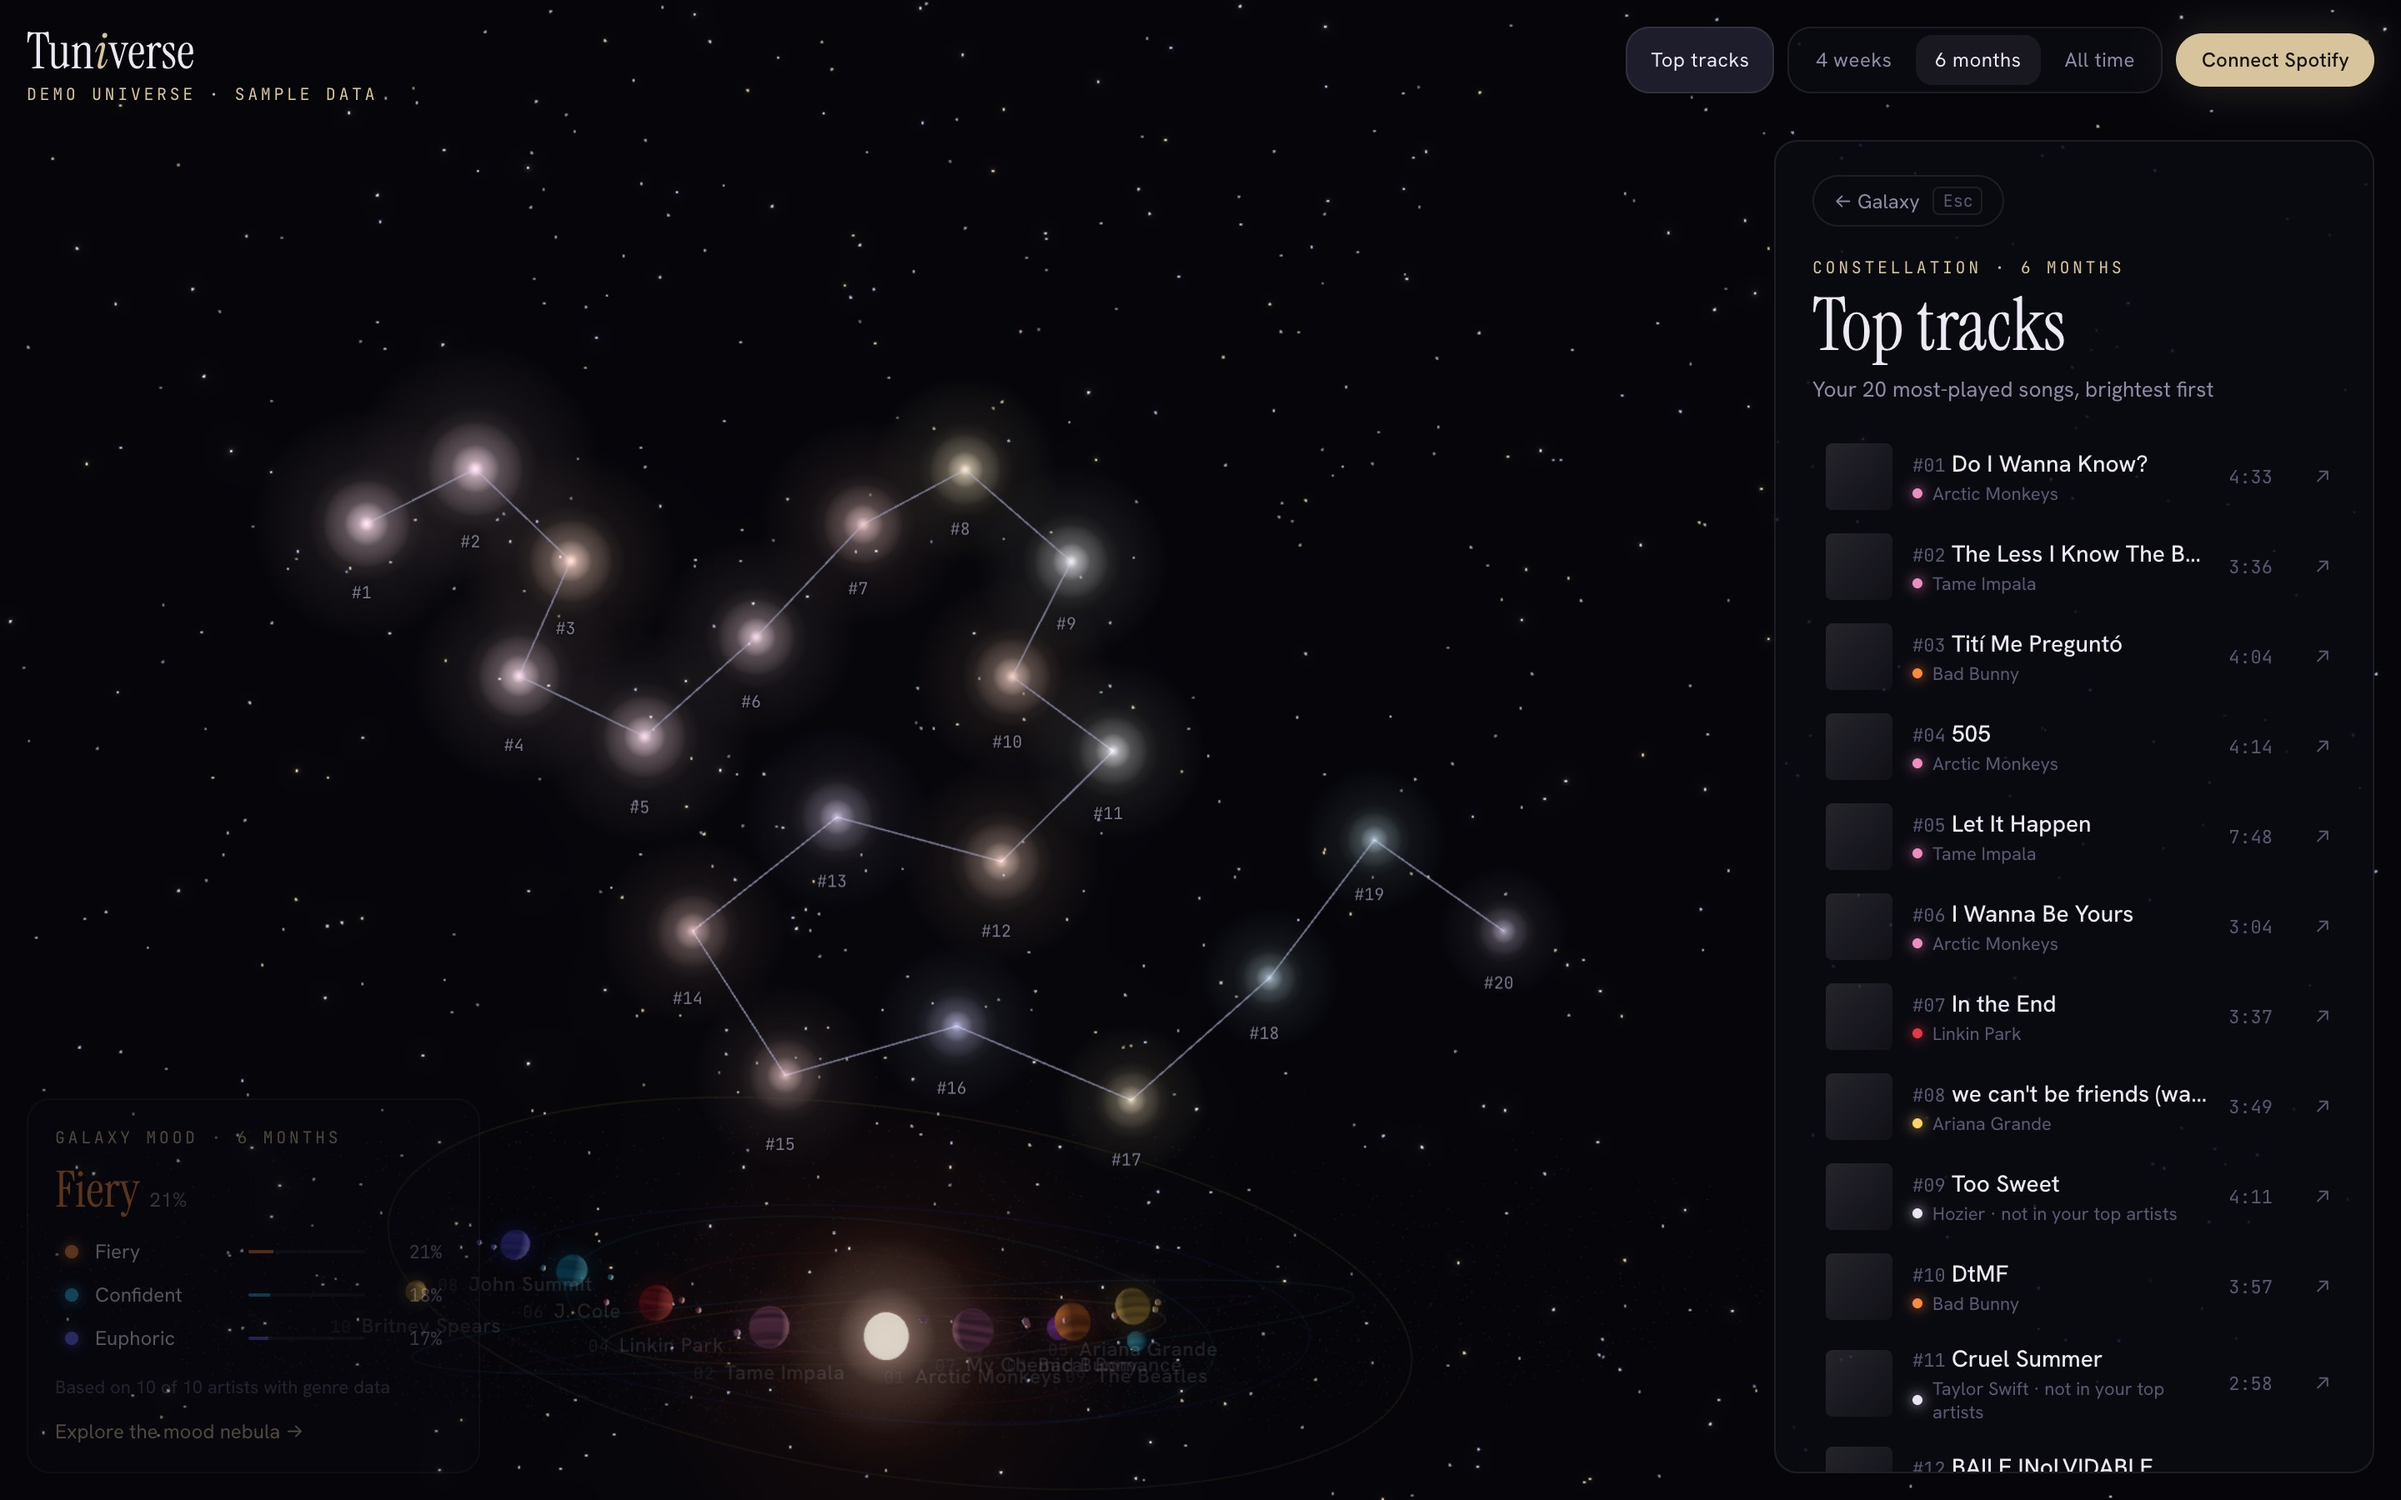
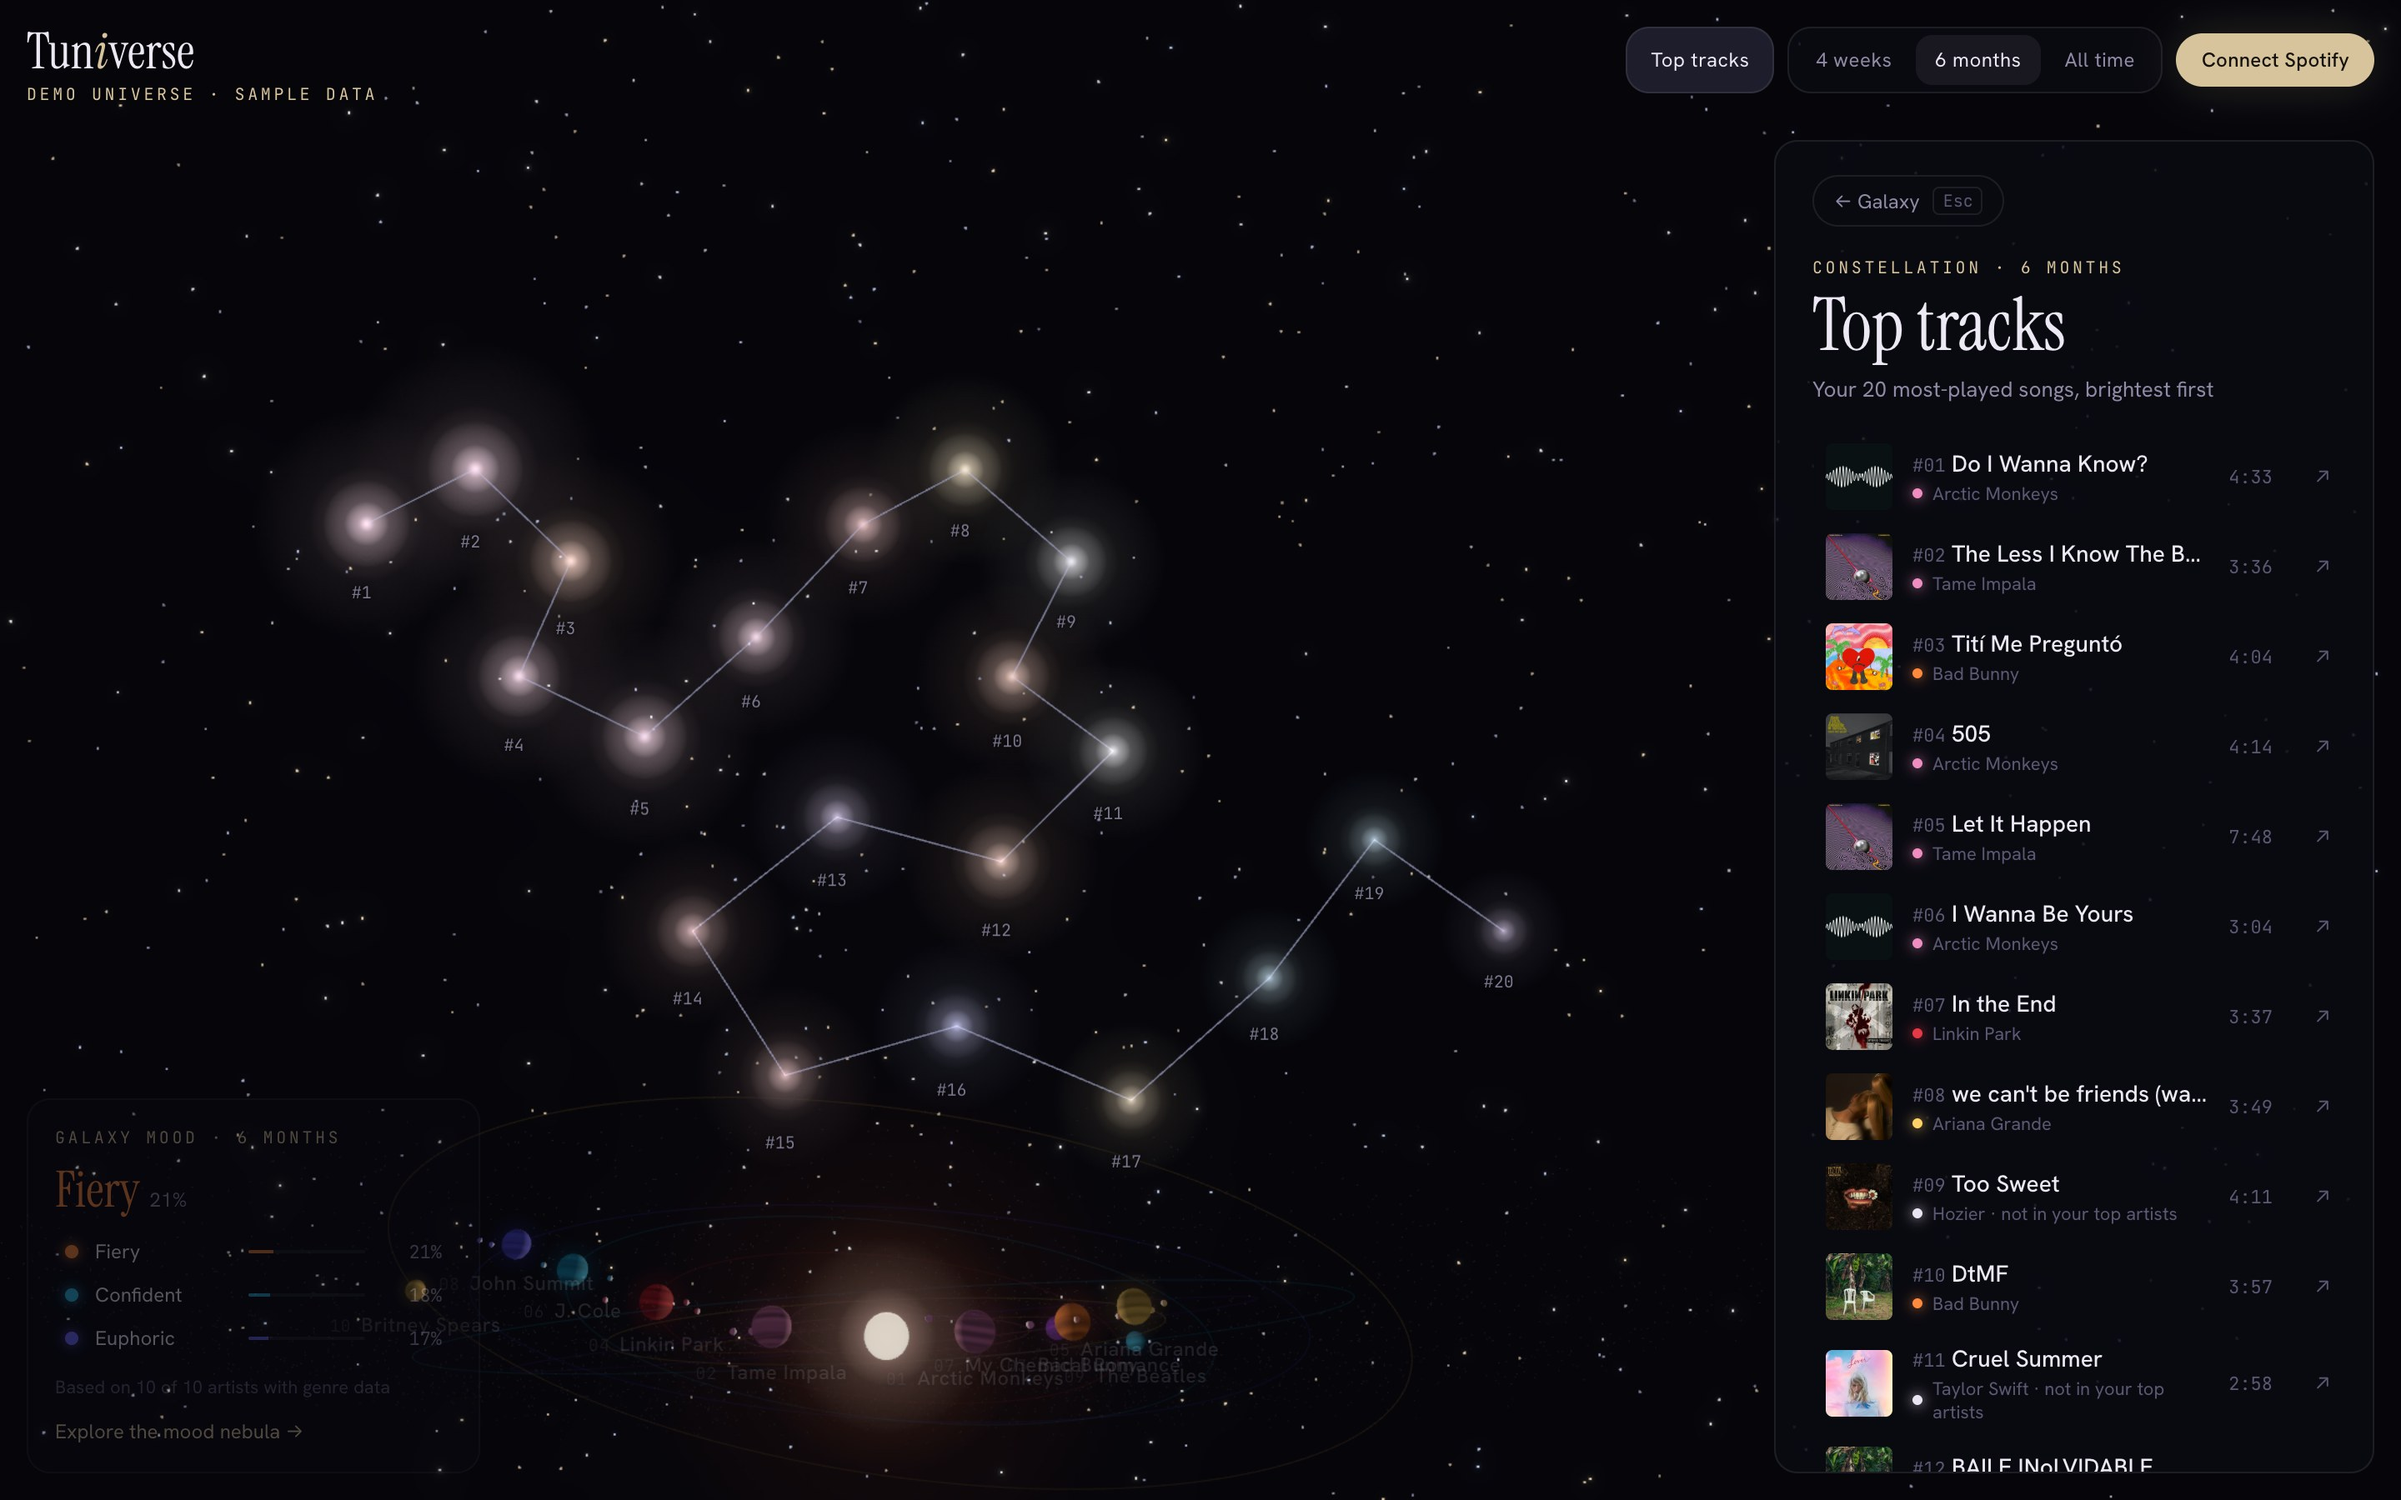
Album covers and artist photos in the demo
The demo's tracks and artists now carry their real Spotify images, taken
from Spotify's public oEmbed endpoint and served from its image CDN, so
the track lists and artist panels look like a real account's. README
screenshots updated to match.

Changed region(s): [[0.75, 0.6533, 0.8125, 0.9956], [0.75, 0.3111, 0.8125, 0.4978], [0.75, 0.5289, 0.8125, 0.6222]]

diff --git a/backend/demo/universe.py b/backend/demo/universe.py
@@ -67,6 +67,27 @@ SPOTIFY_ARTIST_IDS = {
     "hozier": "2FXC3k01G6Gw61bmprjgqS",
 }
 
+# Artist photo ids on Spotify's image CDN (320px), from the same public oEmbed endpoint as the covers
+ARTIST_PHOTOS = {
+    "bad-bunny": "ab6761610000517481f47f44084e0a09b5f0fa13",
+    "the-beatles": "ab67616100005174357fdaf56c64a36a36741538",
+    "kiss": "ab67616100005174d8205a492a79bfe4b34c567a",
+    "britney-spears": "ab67616100005174a82576e3d9f02b310e15a262",
+    "arctic-monkeys": "ab676161000051747da39dea0a72f581535fb11f",
+    "j-cole": "ab67616100005174c401ea77e86ee984b1ba9fc2",
+    "john-summit": "ab6761610000517420662b32f3dbabad755dfb53",
+    "my-chemical-romance": "ab676161000051740c55e74e435910793888f7cf",
+    "tame-impala": "ab67616100005174e412a782245eb20d9626c601",
+    "linkin-park": "ab67616100005174527d95dabbe8b8b527e8136f",
+    "ariana-grande": "ab6761610000517468412f2d0177a9ebc265ff58",
+    "led-zeppelin": "16eb3cdae0d824b520ac17710e943a99d3ef6602",
+    "shakira": "ab6761610000517417f15f351cba70561ad8bcac",
+    "olivia-dean": "ab676161000051745c7577ad44daeb7ce4b941a1",
+    "taylor-swift": "ab6761610000517412184bdd29403de54cb9d9c7",
+    "phoebe-bridgers": "ab676161000051746e2d4ab2b84463aa4c349311",
+    "hozier": "ab67616100005174ad85a585103dfc2f3439119a",
+}
+
 # Each period's top 10 artists, in rank order
 TOP_ARTISTS = {
     "short_term": ["john-summit", "bad-bunny", "olivia-dean", "ariana-grande", "linkin-park", "tame-impala", "j-cole", "shakira", "arctic-monkeys", "my-chemical-romance"],
@@ -96,6 +117,45 @@ TRACKS = {
 }
 TRACKS_ONLY = ("taylor-swift", "phoebe-bridgers", "hozier")
 
+# Album cover image ids on Spotify's image CDN (300px), keyed by track id. From Spotify's
+# public oEmbed endpoint, so the demo shows the same covers as a real account.
+ALBUM_COVERS = {
+    "3sK8wGT43QFpWrvNQsrQya": "ab67616d00001e02bbd45c8d36e0e045ef640411",
+    "2lTm559tuIvatlT1u0JYG2": "ab67616d00001e02bbd45c8d36e0e045ef640411",
+    "1IHWl5LamUGEuP4ozKQSXZ": "ab67616d00001e0249d694203245f241a1bcaa72",
+    "6dGnYIeXmHdcikdzNNDMm2": "ab67616d00001e02dc30583ba717007b00cceb25",
+    "7iN1s7xHE4ifF5povM6A48": "ab67616d00001e0284243a01af3c77b56fe01ab1",
+    "07q0QVgO56EorrSGHC48y3": "ab67616d00001e024384b6976cadaec272114022",
+    "1Buwv1iql0YsxftE5LHIgq": "ab67616d00001e0283c7a3d87674e9b7ecaaa1f5",
+    "6I9VzXrHxO9rA9A5euc8Ak": "ab67616d00001e02efc6988972cb04105f002cd4",
+    "3MjUtNVVq3C8Fn0MP3zhXa": "ab67616d00001e0236cf58e3e7cf36a145b1da18",
+    "5FVd6KXrgO9B3JPmC8OPst": "ab67616d00001e024ae1c4c5c45aabe565499163",
+    "58ge6dfP91o9oXMzq3XkIS": "ab67616d00001e020c8ac83035e9588e8ad34b90",
+    "5XeFesFbtLpXzIVDNQP22n": "ab67616d00001e024ae1c4c5c45aabe565499163",
+    "68Dni7IE4VyPkTOH9mRWHr": "ab67616d00001e02c6e0948bbb0681ff29cdbae8",
+    "2b5scDVCDxVsLalecDLAo2": "ab67616d00001e02c0ae820e3b64854de4642101",
+    "3pUz2qJe5nqZemi3hhIxMk": "ab67616d00001e02ac2be70b09319ac92b074fde",
+    "32VIrOsJmwvqRm4rWFBCsi": "ab67616d00001e02ac2be70b09319ac92b074fde",
+    "5wQnmLuC1W7ATsArWACrgW": "ab67616d00001e02663b6ce496144fa5c3670ac0",
+    "5dTHtzHFPyi8TlTtzoz1J9": "ab67616d00001e02cab7ae4868e9f9ce6bdfdf43",
+    "6K4t31amVTZDgR3sKmwUJJ": "ab67616d00001e029e1cfc756886ac782e363d79",
+    "2X485T9Z5Ly0xyaghN73ed": "ab67616d00001e029e1cfc756886ac782e363d79",
+    "60a0Rd6pjrkxjPbaKzXjfq": "ab67616d00001e02e2f039481babe23658fc719a",
+    "2nLtzopw4rPReszdYBJU6h": "ab67616d00001e025f1f51d14e8bea89484ecd1b",
+    "1EDPVGbyPKJPeGqATwXZvN": "ab67616d00001e028be9eeb8f19696ef2fd3b6b4",
+    "51ZQ1vr10ffzbwIjDCwqm4": "ab67616d00001e028b58d20f1b77295730db15b4",
+    "6ocbgoVGwYJhOv1GgI9NsF": "ab67616d00001e0256ac7b86e090f307e218e9c8",
+    "5CQ30WqJwcep0pYcV4AMNc": "ab67616d00001e02c8a11e48c91a982d086afc69",
+    "78lgmZwycJ3nzsdgmPPGNx": "ab67616d00001e0290a50cfe99a4c19ff3cbfbdb",
+    "3d0WouFnFmr0K3kjeza3fF": "ab67616d00001e0285432abc16fd92be0d435cb9",
+    "2lnzGkdtDj5mtlcOW2yRtG": "ab67616d00001e021f400a1f4d821b00824cf58f",
+    "0mYXRQpTGjaLJt1l9MY4ps": "ab67616d00001e029a336bfb6d40bbd90a507417",
+    "36vmaZyO0iAE6FZ7287fg2": "ab67616d00001e02cac9b52107643faf13a7587b",
+    "1BxfuPKGuaTgP7aM0Bbdwr": "ab67616d00001e02e787cffec20aa2a396a61647",
+    "5xo8RrjJ9CVNrtRg2S3B1R": "ab67616d00001e026c26e4a2e4df94a55591c48f",
+    "76JKIsdKrAfWUMjaA0u7v5": "ab67616d00001e028217a2c528bf9ad2ccbc82dc",
+}
+
 USER = {"id": "demo", "display_name": "Demo Listener", "images": [], "external_urls": {}, "followers": {"total": 48}}
 
 
@@ -113,7 +173,7 @@ def _raw_artist(artist_id: str) -> dict:
         "genres": genres,
         "popularity": popularity,
         "followers": {"total": followers},
-        "images": [],
+        "images": [{"url": f"https://i.scdn.co/image/{ARTIST_PHOTOS[artist_id]}", "height": 320, "width": 320}],
         "external_urls": {"spotify": f"https://open.spotify.com/artist/{spotify_id}"},
     }
 
@@ -123,7 +183,11 @@ def _raw_track(artist_id: str, title: str, seconds: int, release_date: str, spot
         "id": spotify_id,
         "name": title,
         "artists": [{"id": SPOTIFY_ARTIST_IDS[artist_id], "name": ARTISTS[artist_id][0]}],
-        "album": {"name": title, "release_date": release_date, "images": []},
+        "album": {
+            "name": title,
+            "release_date": release_date,
+            "images": [{"url": f"https://i.scdn.co/image/{ALBUM_COVERS[spotify_id]}", "height": 300, "width": 300}],
+        },
         "popularity": 70,
         "duration_ms": seconds * 1000,
         "explicit": False,
